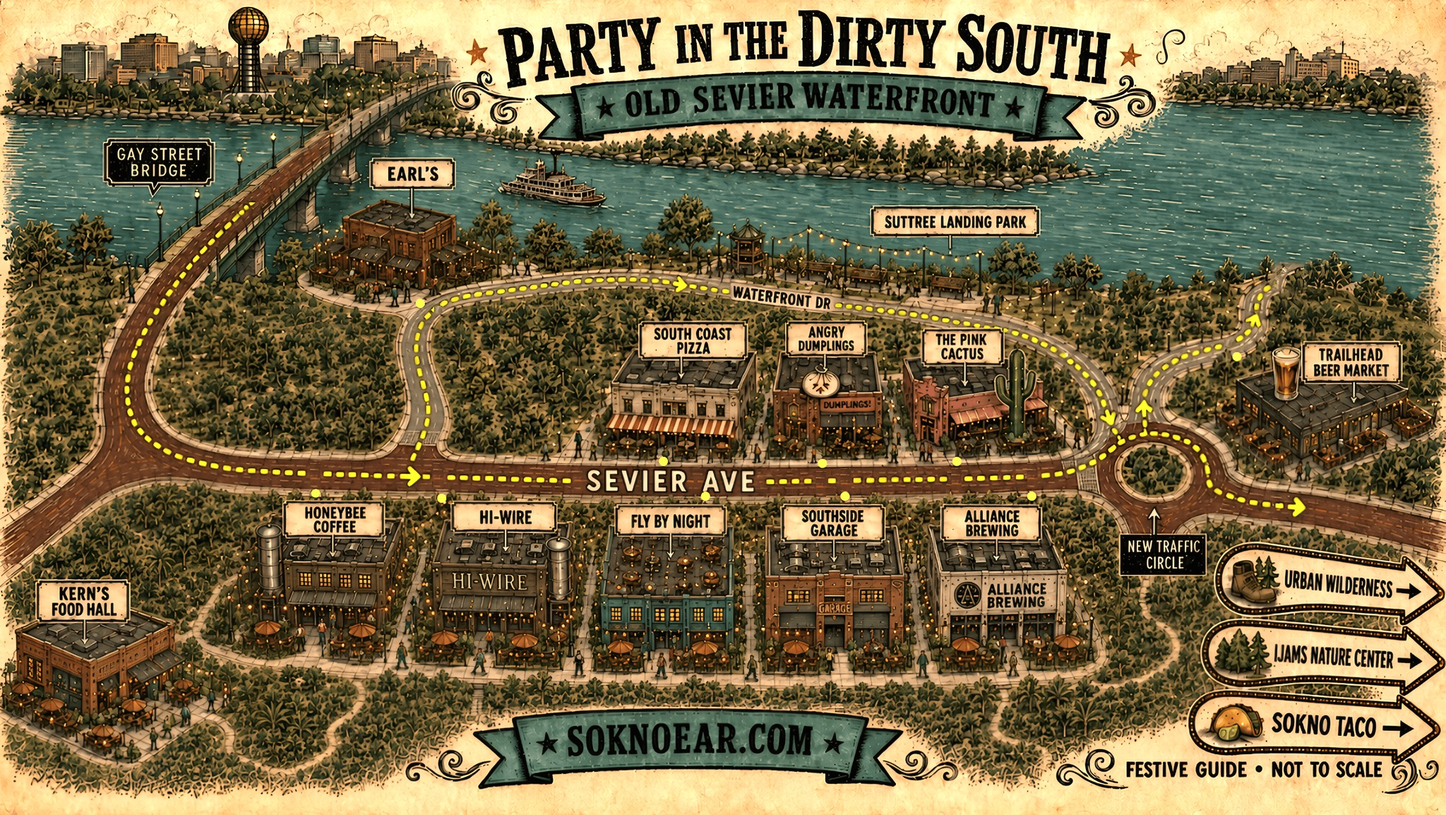
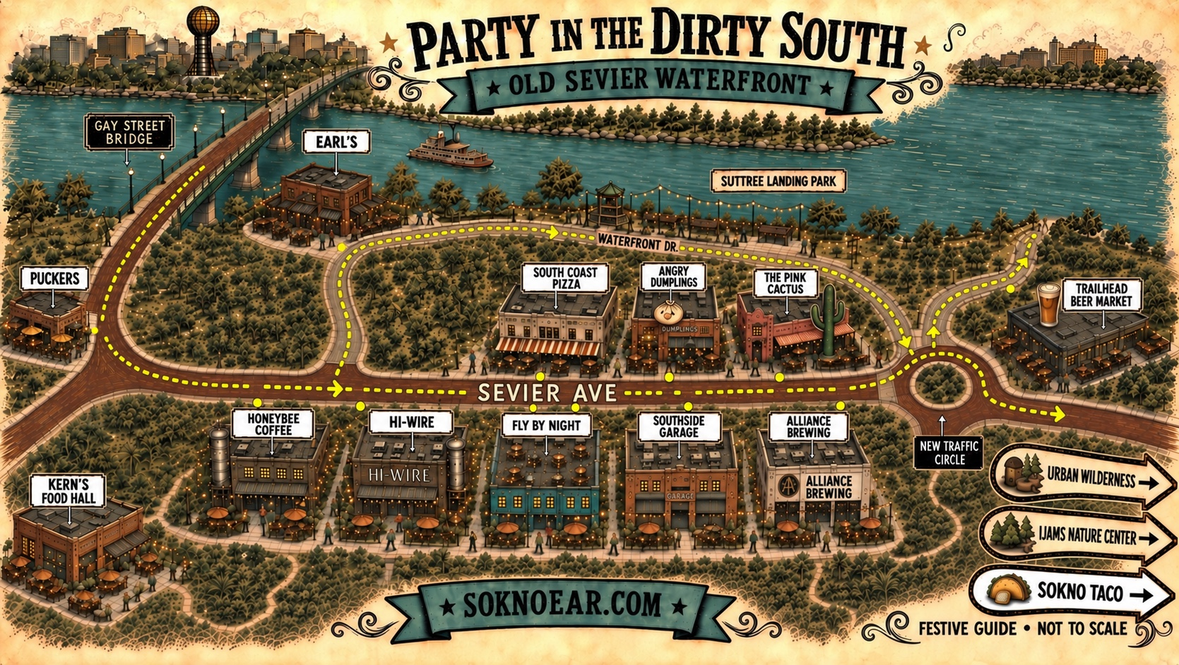
Dirty South map: swap in the Sep 10 "Signs" version, with Puckers on it
Source: ~/Desktop/DirtySouthMap_260910_Signs.png (1669x942), re-encoded at q90.
The card thumbnail, the lightbox and /dirtysouthparty all read the same file, so
one swap covers all three.

Alt text was stale — it still listed the old lineup with no Puckers. Now names
Puckers, the new traffic circle, the Gay Street Bridge and the signposts out to
the Urban Wilderness, Ijams Nature Center and SoKno Taco.

Note: the new art is 1669px wide against the old 2048, so the lightbox has less
room to zoom. Flagged for Andy in case a larger export exists.

diff --git a/components/PartyMapCard.tsx b/components/PartyMapCard.tsx
@@ -10,7 +10,7 @@ import { createPortal } from "react-dom";
 
 const MAP_SRC = "/assets/dirty_south_festive_map.jpg";
 const MAP_ALT =
-  "Party in the Dirty South — festive map of the Old Sevier waterfront: Kern's Food Hall, Honeybee Coffee, Hi-Wire, Fly by Night, Southside Garage, Alliance Brewing, Earl's, South Coast Pizza, Angry Dumplings, The Pink Cactus, Trailhead Beer Market, Suttree Landing Park, and the crawl route along Sevier Ave";
+  "Party in the Dirty South — festive map of the Old Sevier waterfront: Puckers, Kern's Food Hall, Honeybee Coffee, Hi-Wire, Fly by Night, Southside Garage, Alliance Brewing, Earl's, South Coast Pizza, Angry Dumplings, The Pink Cactus, Trailhead Beer Market, Suttree Landing Park and the new traffic circle, with the Gay Street Bridge crossing to downtown and signposts out to the Urban Wilderness, Ijams Nature Center and SoKno Taco — plus the crawl route along Sevier Ave and Waterfront Drive";
 
 const bandStyle: React.CSSProperties = {
   background: "var(--teal)", color: "var(--on-teal)",
